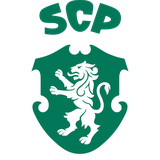
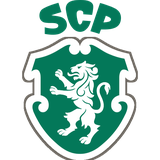
Contorno do Sporting so no escudo, gravado na imagem

Changed region(s): [[0.125, 0.2188, 0.875, 1.0]]

diff --git a/index.html b/index.html
@@ -17,7 +17,7 @@
 <link rel="preconnect" href="https://fonts.googleapis.com">
 <link rel="preconnect" href="https://fonts.gstatic.com" crossorigin>
 <link href="https://fonts.googleapis.com/css2?family=Archivo:wght@600;700;800&family=IBM+Plex+Sans:wght@400;500;600&display=swap" rel="stylesheet">
-<link rel="stylesheet" href="assets/css/estilo.css?v=6">
+<link rel="stylesheet" href="assets/css/estilo.css?v=7">
 </head>
 <body>
 
@@ -101,8 +101,8 @@
       </li>
       <li>
         <picture>
-          <source srcset="assets/img/emblema-sporting.webp" type="image/webp">
-          <img class="contornado" src="assets/img/emblema-sporting.png" width="80" height="80" alt="Emblema do Sporting Clube de Portugal" loading="lazy" decoding="async">
+          <source srcset="assets/img/emblema-sporting.webp?v=2" type="image/webp">
+          <img src="assets/img/emblema-sporting.png?v=2" width="80" height="80" alt="Emblema do Sporting Clube de Portugal" loading="lazy" decoding="async">
         </picture>
         <span>Sporting Clube de Portugal</span>
       </li>

diff --git a/orcamento/index.html b/orcamento/index.html
@@ -17,7 +17,7 @@
 <link rel="preconnect" href="https://fonts.googleapis.com">
 <link rel="preconnect" href="https://fonts.gstatic.com" crossorigin>
 <link href="https://fonts.googleapis.com/css2?family=Archivo:wght@600;700;800&family=IBM+Plex+Sans:wght@400;500;600&display=swap" rel="stylesheet">
-<link rel="stylesheet" href="../assets/css/estilo.css?v=6">
+<link rel="stylesheet" href="../assets/css/estilo.css?v=7">
 </head>
 <body>
 

diff --git a/assets/css/estilo.css b/assets/css/estilo.css
@@ -369,15 +369,6 @@ p { margin: 0 0 1em; }
   object-fit: contain;
   margin: 0 auto 0.9rem;
 }
-/* o escudo do Sporting acaba em branco e perde-se no fundo claro */
-.clubes-lista .contornado {
-  filter:
-    drop-shadow(1px 0 0 #6f6a63)
-    drop-shadow(-1px 0 0 #6f6a63)
-    drop-shadow(0 1px 0 #6f6a63)
-    drop-shadow(0 -1px 0 #6f6a63);
-}
-
 .clubes-lista span {
   display: block;
   font-family: var(--display);
